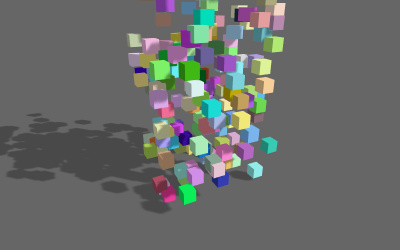
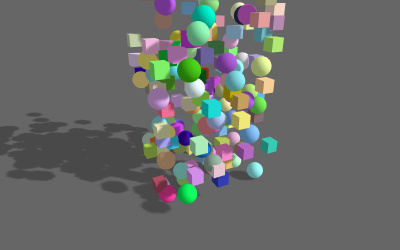
Examples: Improved physics_ammo_instancing.

diff --git a/examples/physics_ammo_instancing.html b/examples/physics_ammo_instancing.html
@@ -24,6 +24,8 @@
 			var camera, scene, renderer, stats;
 			var physics, position;
 
+			var boxes, spheres;
+
 			init();
 
 			async function init() {
@@ -50,34 +52,57 @@
 				light.shadow.camera.zoom = 2;
 				scene.add( light );
 
-				var plane = new THREE.Mesh(
-					new THREE.PlaneBufferGeometry( 5, 5 ),
+				var floor = new THREE.Mesh(
+					new THREE.BoxBufferGeometry( 10, 5, 10 ),
 					new THREE.ShadowMaterial( { color: 0x111111 } )
 				);
-				plane.rotation.x = - Math.PI / 2;
-				plane.receiveShadow = true;
-				scene.add( plane );
-				physics.addMesh( plane );
+				floor.position.y = - 2.5;
+				floor.receiveShadow = true;
+				scene.add( floor );
+				physics.addMesh( floor );
 
-				var geometry = new THREE.BoxBufferGeometry( 0.1, 0.1, 0.1 );
+				//
+
 				var material = new THREE.MeshLambertMaterial();
-				var mesh = new THREE.InstancedMesh( geometry, material, 200 );
-				mesh.castShadow = true;
-				mesh.receiveShadow = true;
-				scene.add( mesh );
 
 				var matrix = new THREE.Matrix4();
 				var color = new THREE.Color();
 
-				for ( var i = 0; i < mesh.count; i ++ ) {
+				// Boxes
+
+				var geometry = new THREE.BoxBufferGeometry( 0.1, 0.1, 0.1 );
+				boxes = new THREE.InstancedMesh( geometry, material, 100 );
+				boxes.castShadow = true;
+				boxes.receiveShadow = true;
+				scene.add( boxes );
+
+				for ( var i = 0; i < boxes.count; i ++ ) {
 
 					matrix.setPosition( Math.random() - 0.5, Math.random() * 2, Math.random() - 0.5 );
-					mesh.setMatrixAt( i, matrix );
-					mesh.setColorAt( i, color.setHex( 0xffffff * Math.random() ) );
+					boxes.setMatrixAt( i, matrix );
+					boxes.setColorAt( i, color.setHex( 0xffffff * Math.random() ) );
 
 				}
 
-				physics.addMesh( mesh, 1 );
+				physics.addMesh( boxes, 1 );
+
+				// Spheres
+
+				var geometry = new THREE.IcosahedronBufferGeometry( 0.075, 2 );
+				spheres = new THREE.InstancedMesh( geometry, material, 100 );
+				spheres.castShadow = true;
+				spheres.receiveShadow = true;
+				scene.add( spheres );
+
+				for ( var i = 0; i < spheres.count; i ++ ) {
+
+					matrix.setPosition( Math.random() - 0.5, Math.random() * 2, Math.random() - 0.5 );
+					spheres.setMatrixAt( i, matrix );
+					spheres.setColorAt( i, color.setHex( 0xffffff * Math.random() ) );
+
+				}
+
+				physics.addMesh( spheres, 1 );
 
 				//
 
@@ -105,11 +130,19 @@
 
 				requestAnimationFrame( animate );
 
-				var mesh = scene.children[ 3 ];
-				var index = Math.floor( Math.random() * mesh.count );
+				//
 
-				position.set( 0, Math.random() * 2, 0 );
-				physics.setMeshPosition( mesh, position, index );
+				var index = Math.floor( Math.random() * boxes.count );
+
+				position.set( 0, Math.random() + 1, 0 );
+				physics.setMeshPosition( boxes, position, index );
+
+				//
+
+				var index = Math.floor( Math.random() * spheres.count );
+
+				position.set( 0, Math.random() + 1, 0 );
+				physics.setMeshPosition( spheres, position, index );
 
 				renderer.render( scene, camera );
 

diff --git a/examples/jsm/physics/AmmoPhysics.js b/examples/jsm/physics/AmmoPhysics.js
@@ -39,12 +39,11 @@ async function AmmoPhysics() {
 
 			return shape;
 
-		} else if ( geometry.type === 'PlaneBufferGeometry' ) {
+		} else if ( geometry.type === 'SphereBufferGeometry' || geometry.type === 'IcosahedronBufferGeometry' ) {
 
-			const sx = parameters.width !== undefined ? parameters.width / 2 : 0.5;
-			const sy = parameters.height !== undefined ? parameters.height / 2 : 0.5;
+			const radius = parameters.radius !== undefined ? parameters.radius : 1;
 
-			const shape = new AmmoLib.btBoxShape( new AmmoLib.btVector3( sx, sy, 0.01 ) );
+			const shape = new AmmoLib.btSphereShape( radius );
 			shape.setMargin( 0.05 );
 
 			return shape;
